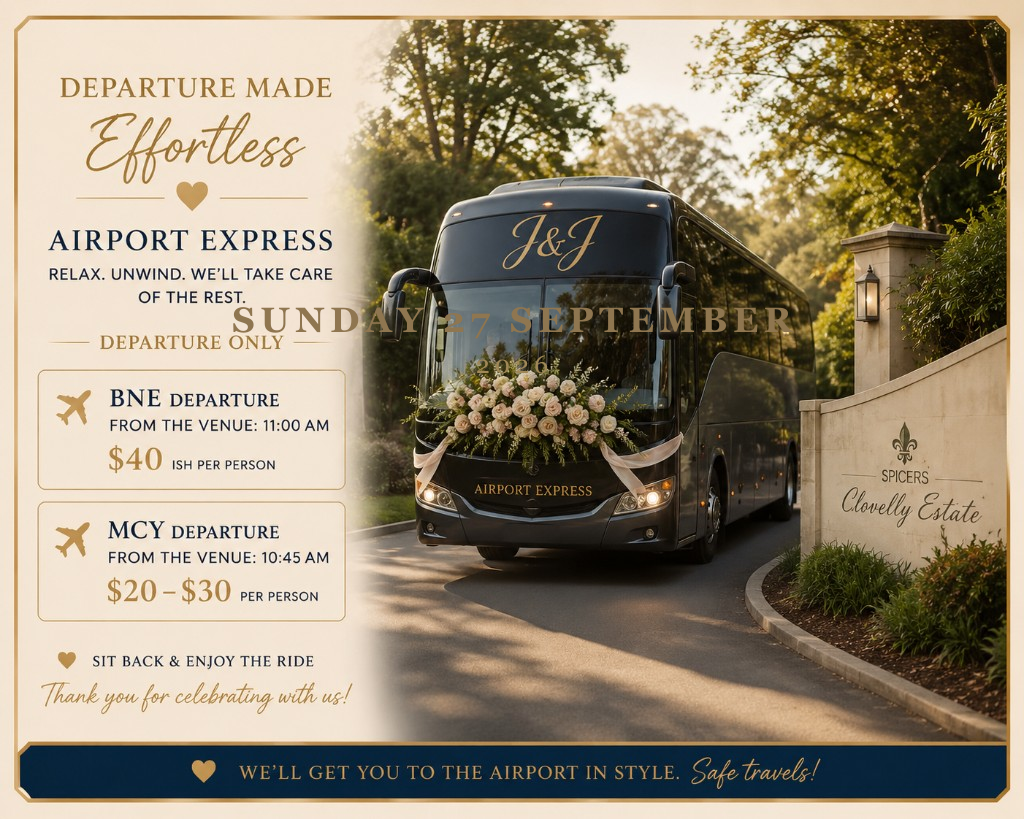
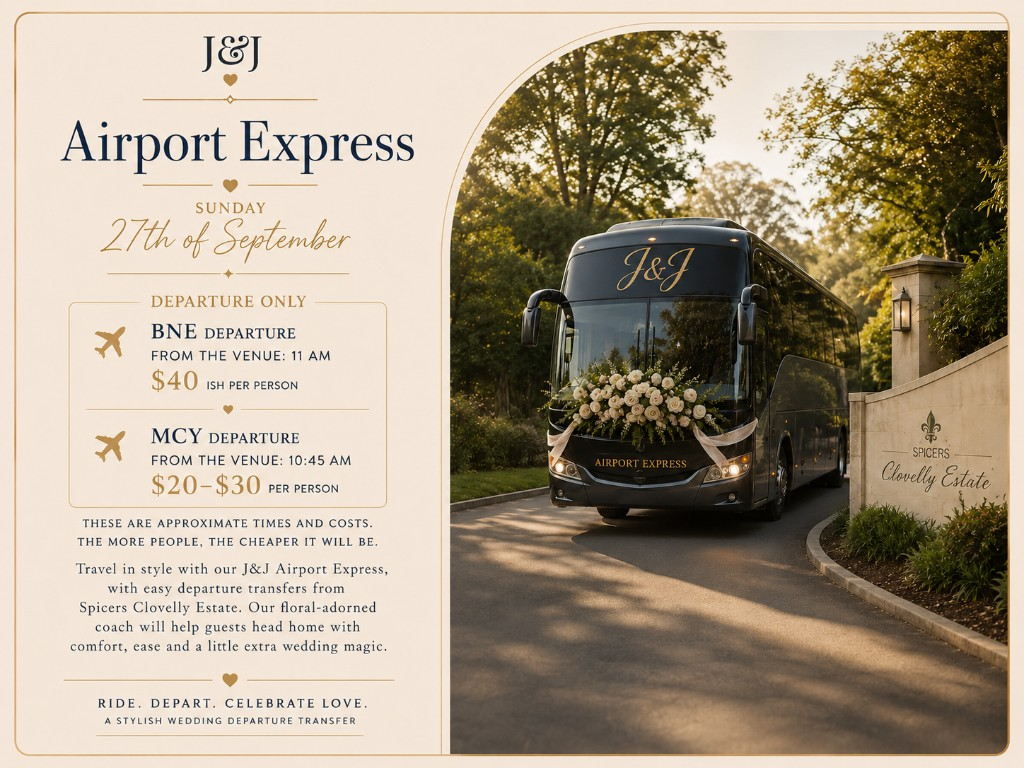
Replace Airport Express flyer with updated J&J design.
New departure graphic includes the Sunday 27 September date and refreshed layout; flyer URL is cache-busted on deploy.

diff --git a/src/lib/return-shuttle.ts b/src/lib/return-shuttle.ts
@@ -1,8 +1,10 @@
+import { APP_BUILD_ID } from "@/lib/app-build-id";
+
 export const RETURN_SHUTTLE_AIRPORTS = ["MCY", "BNE"] as const;
 
 export type ReturnShuttleAirport = (typeof RETURN_SHUTTLE_AIRPORTS)[number];
 
-export const RETURN_SHUTTLE_FLYER = "/transfers/airport-express-departure.png";
+export const RETURN_SHUTTLE_FLYER = `/transfers/airport-express-departure.png?v=${encodeURIComponent(APP_BUILD_ID)}`;
 
 export const RETURN_SHUTTLE = {
   date: "2026-09-27",